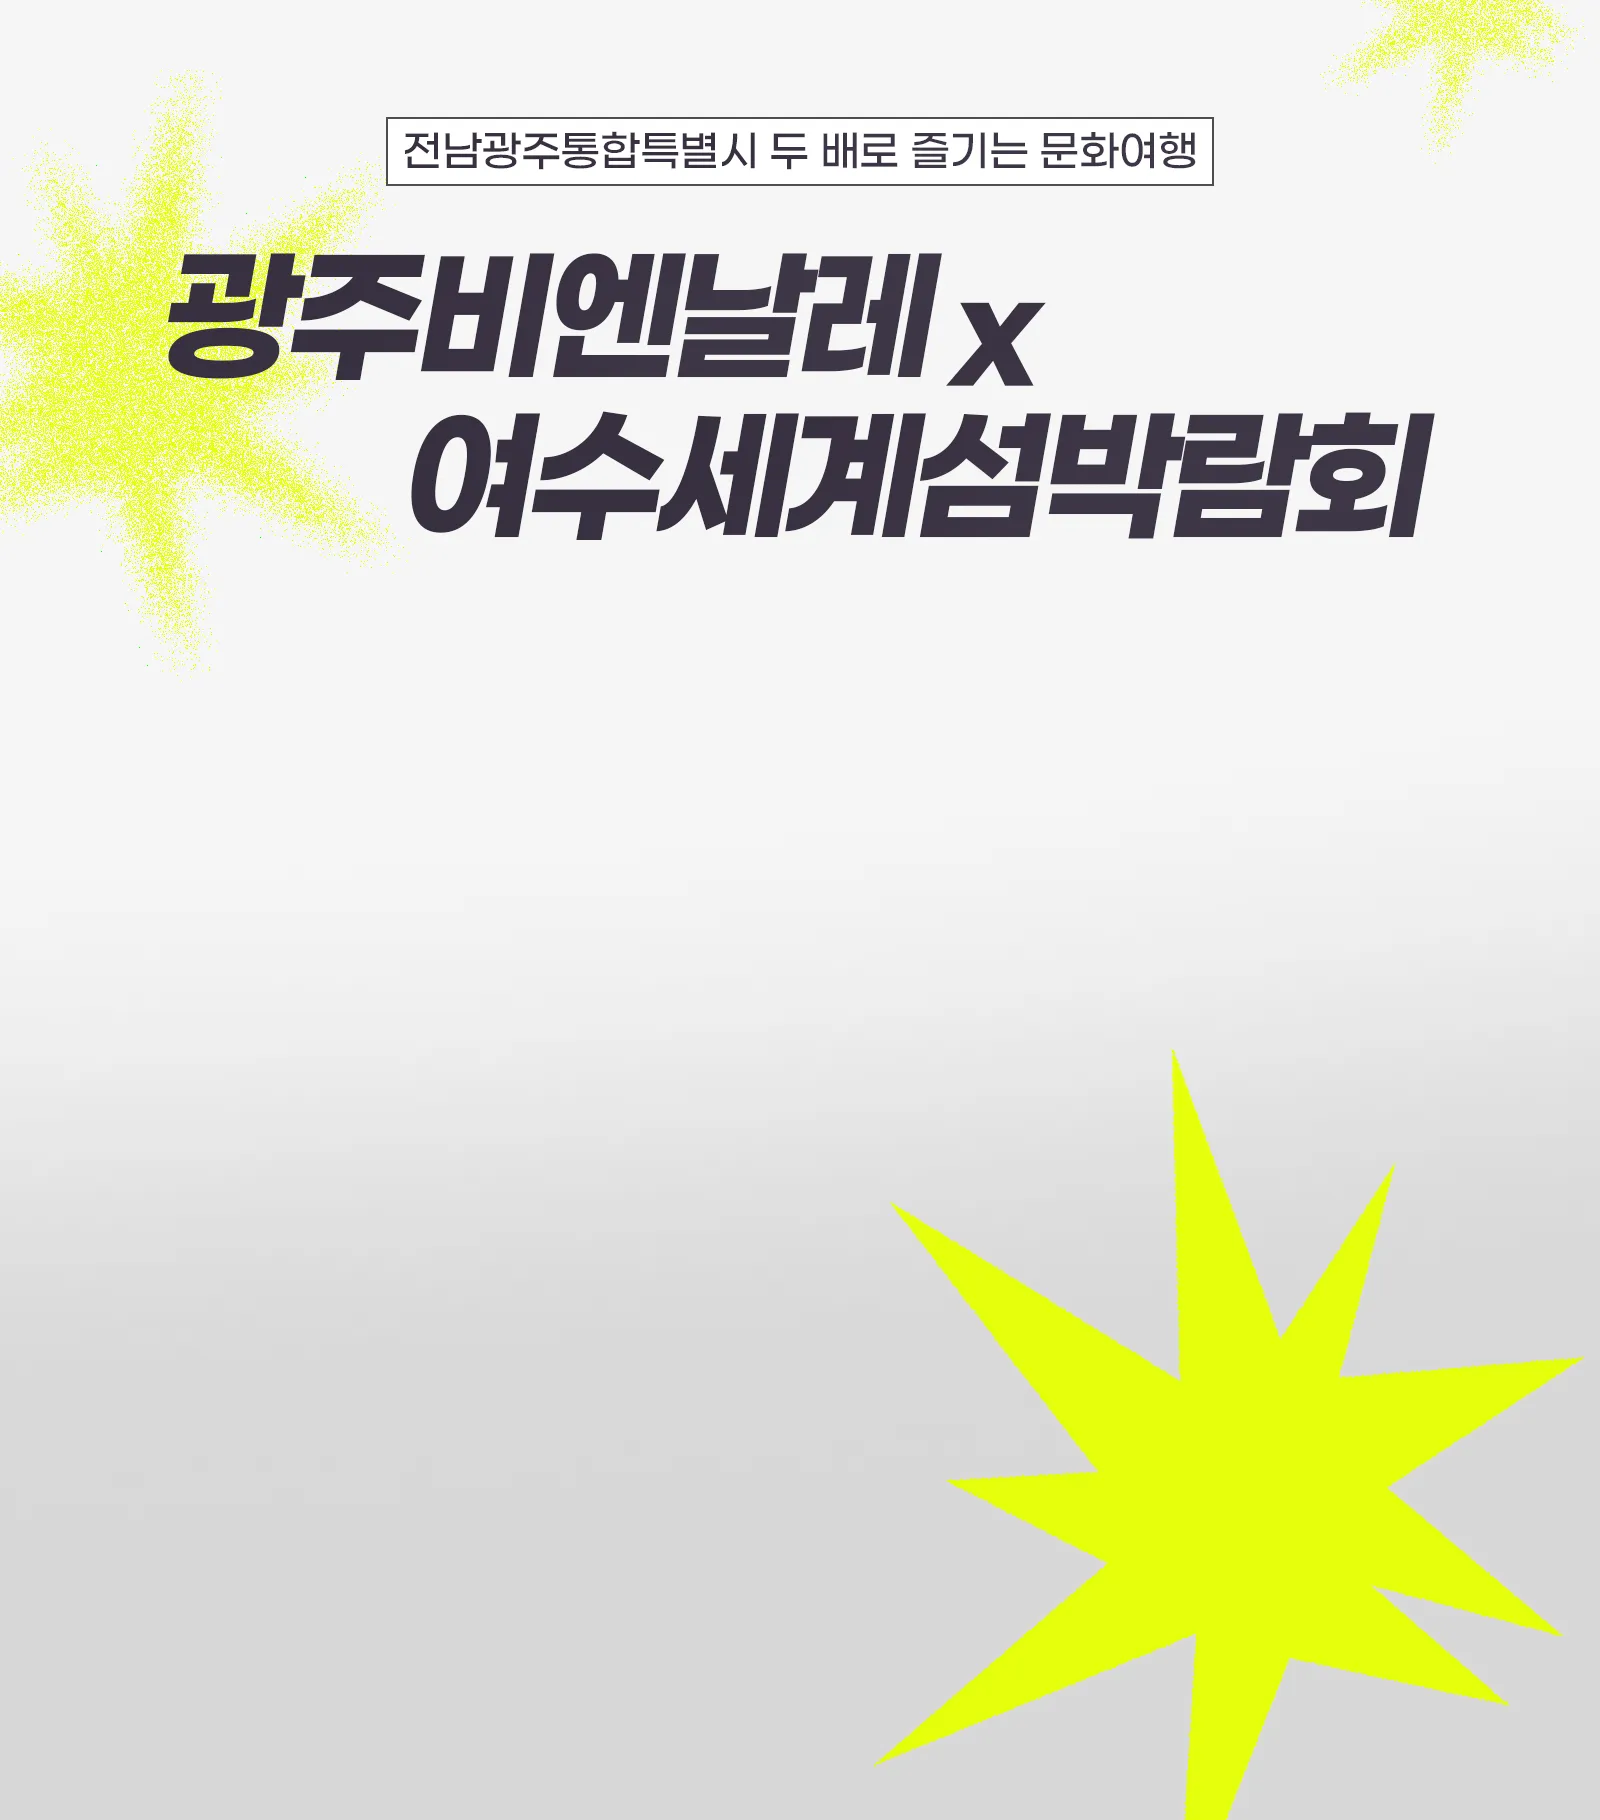
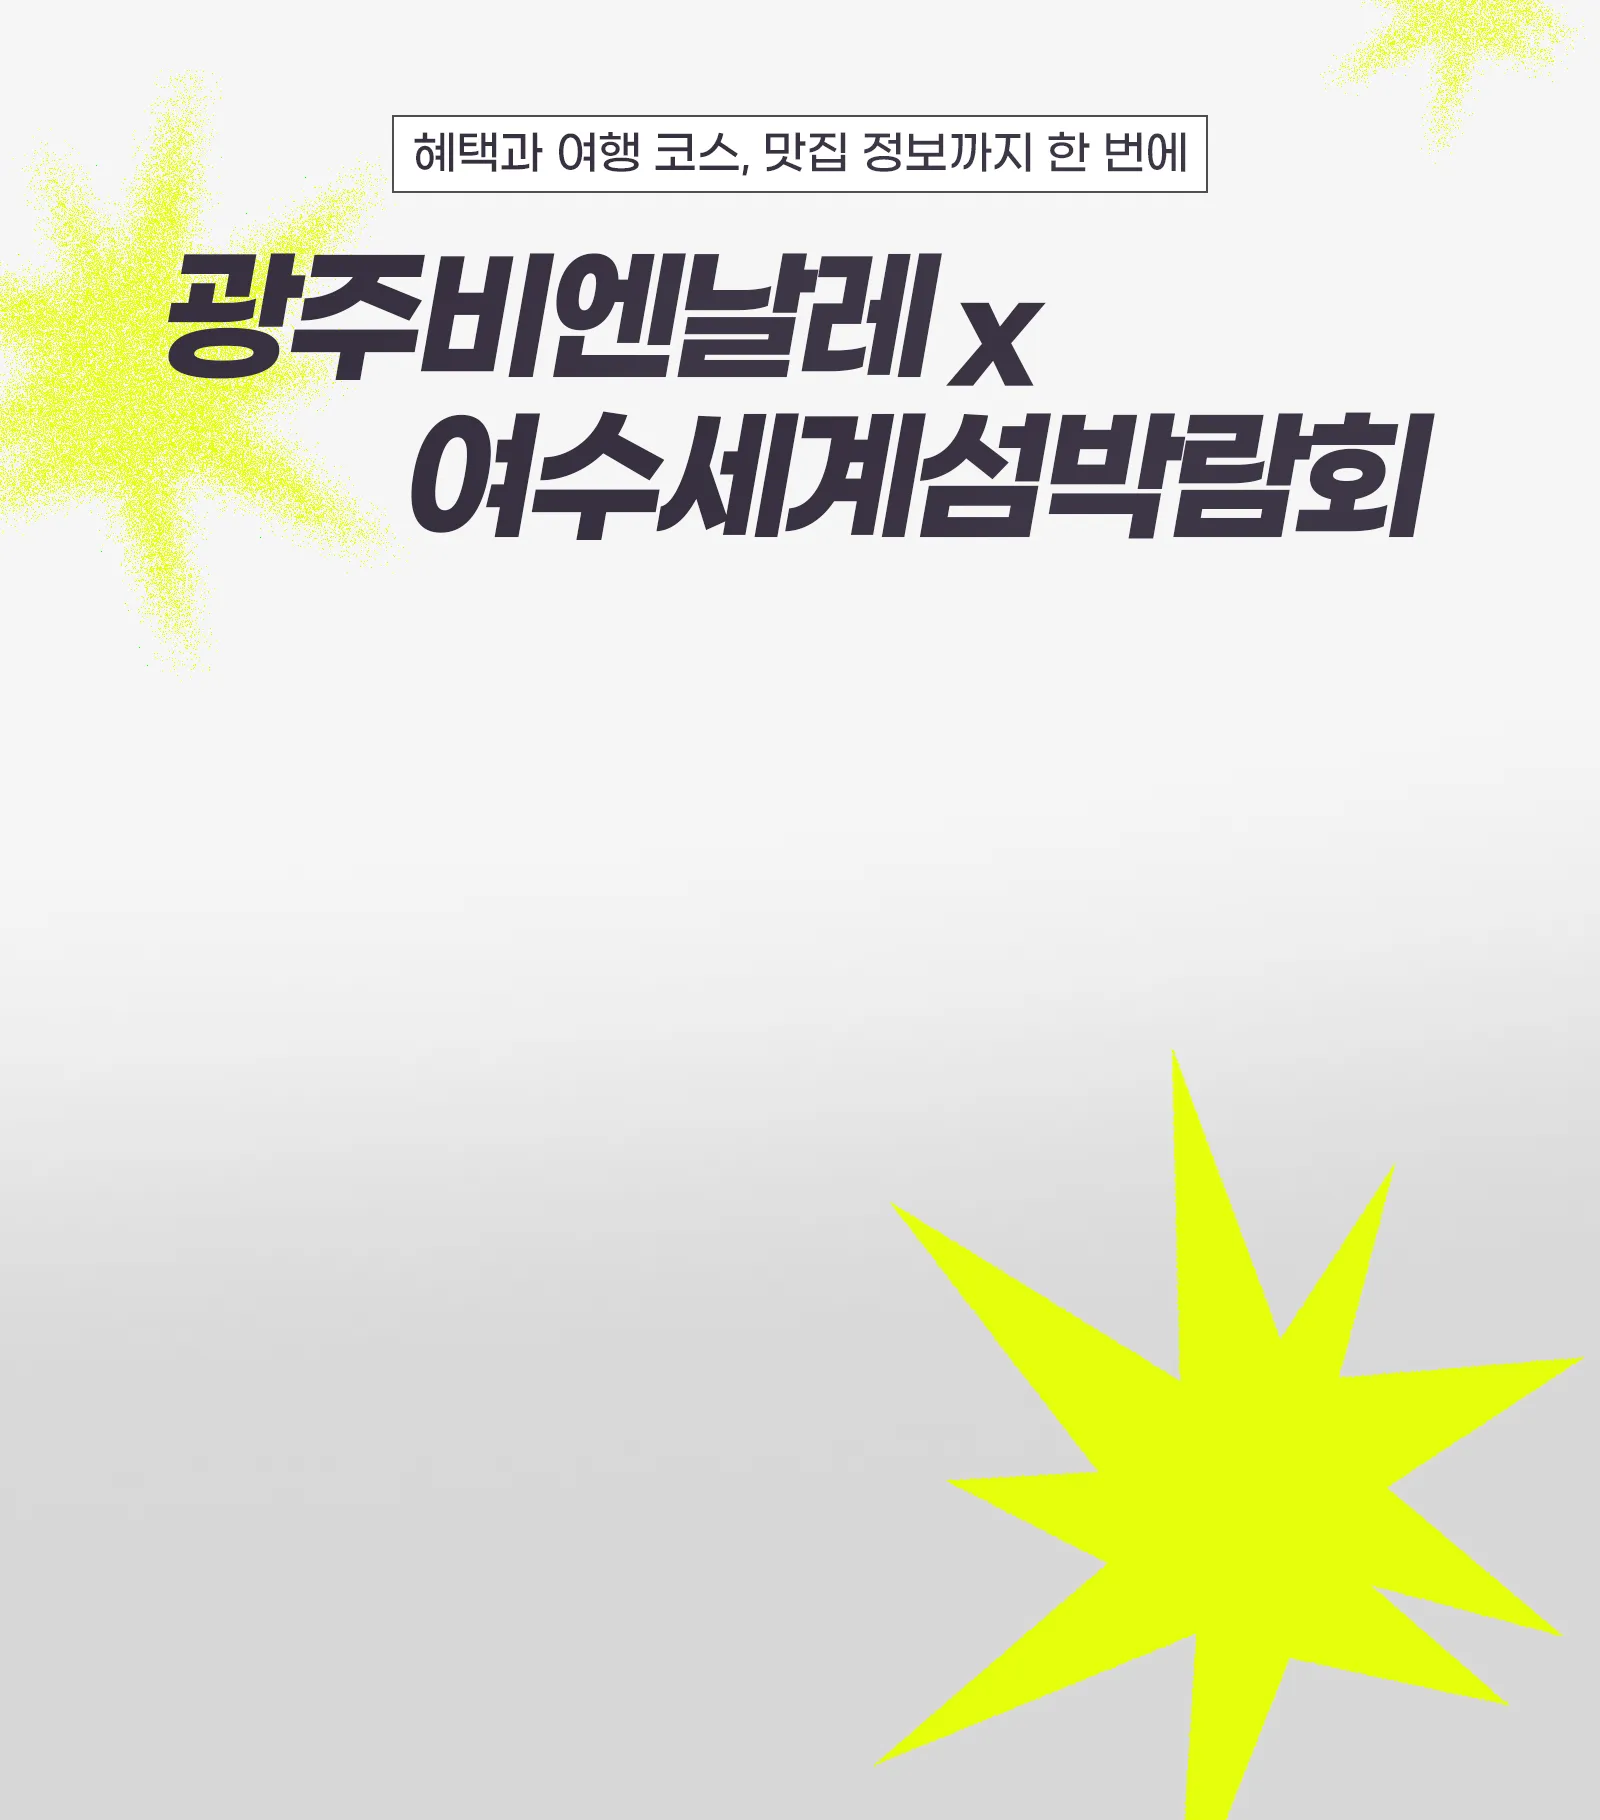
Add files via upload

Changed region(s): [[0.25, 0.0615, 0.75, 0.1231]]

diff --git a/index.html b/index.html
@@ -2040,7 +2040,7 @@ if(location.protocol==='file:'||location.hostname.indexOf('github.io')>-1){
 </div></div>
 <div class="gyf-cell is-ys"><div class="gyf-cell-body">
 <p class="gyf-fname">여수세계섬박람회</p>
-<ul class="gyf-info"><li><span class="gyf-lb">기간</span><span class="gyf-val"><span class="gyf-nw">2026.09.05.(토)~</span><span class="gyf-nw">11.04.(수)</span></span></li><li><span class="gyf-lb">장소</span><span class="gyf-val">돌산 진모지구, 여수세계박람회장,<br>개도, 금오도 일원</span></li></ul>
+<ul class="gyf-info"><li><span class="gyf-lb">기간</span><span class="gyf-val"><span class="gyf-nw">2026.09.05.(토)~</span><span class="gyf-nw">11.04.(수)</span></span></li><li><span class="gyf-lb">장소</span><span class="gyf-val"><span class="gyf-nw">돌산 진모지구,</span> <span class="gyf-nw">여수세계박람회장,</span> <span class="gyf-nw">개도,</span> <span class="gyf-nw">금오도 일원</span></span></li></ul>
 </div></div>
 </div>
 </div>
